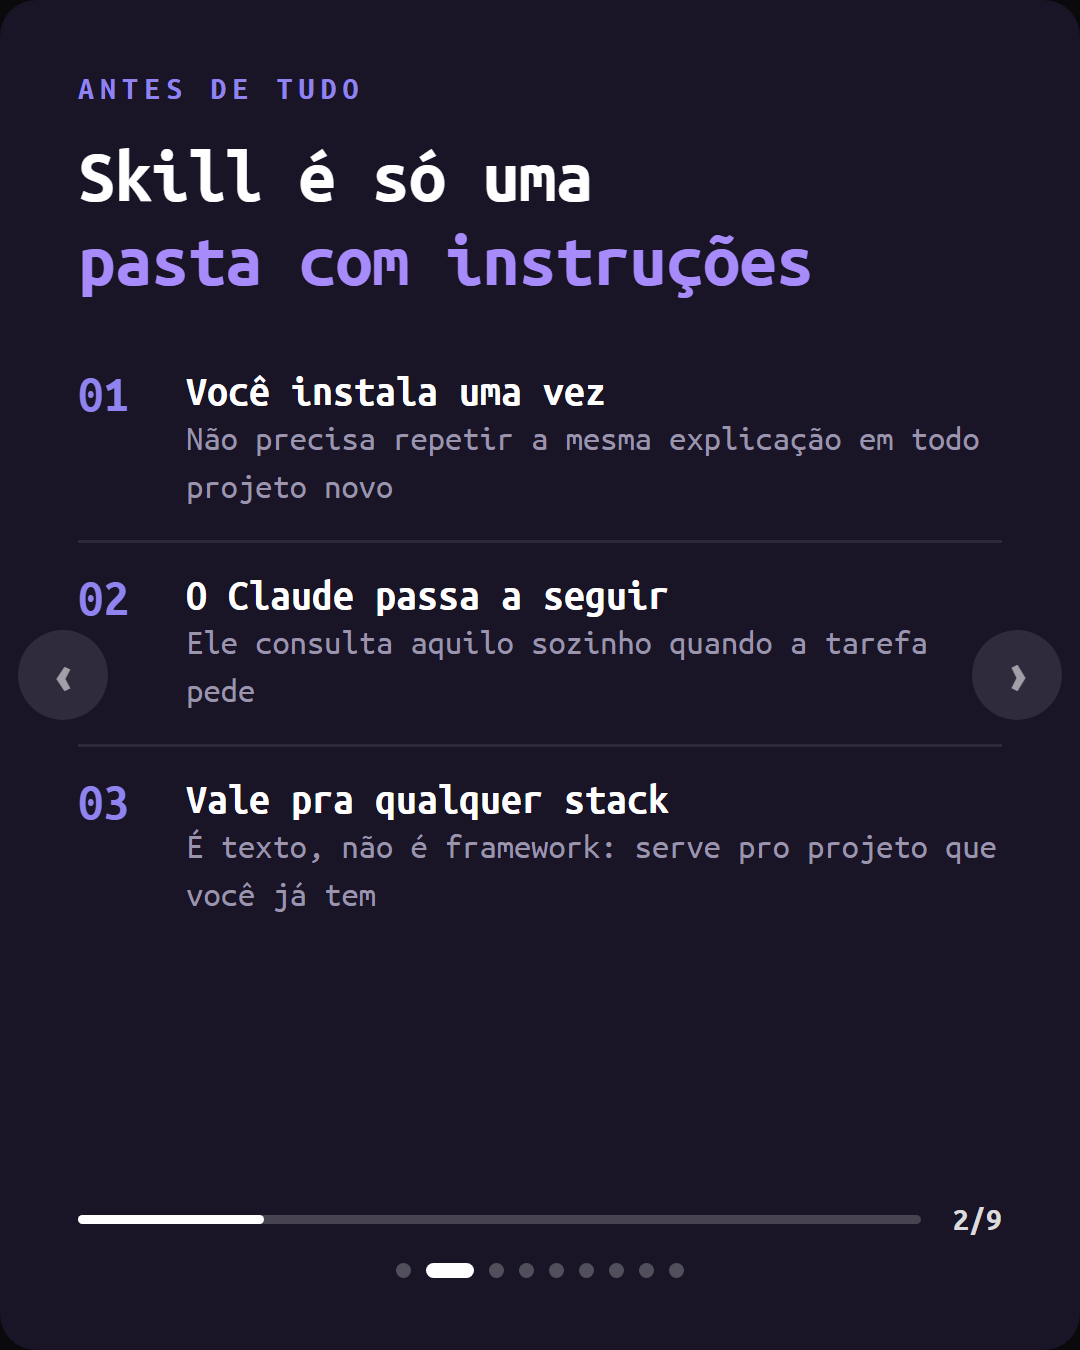
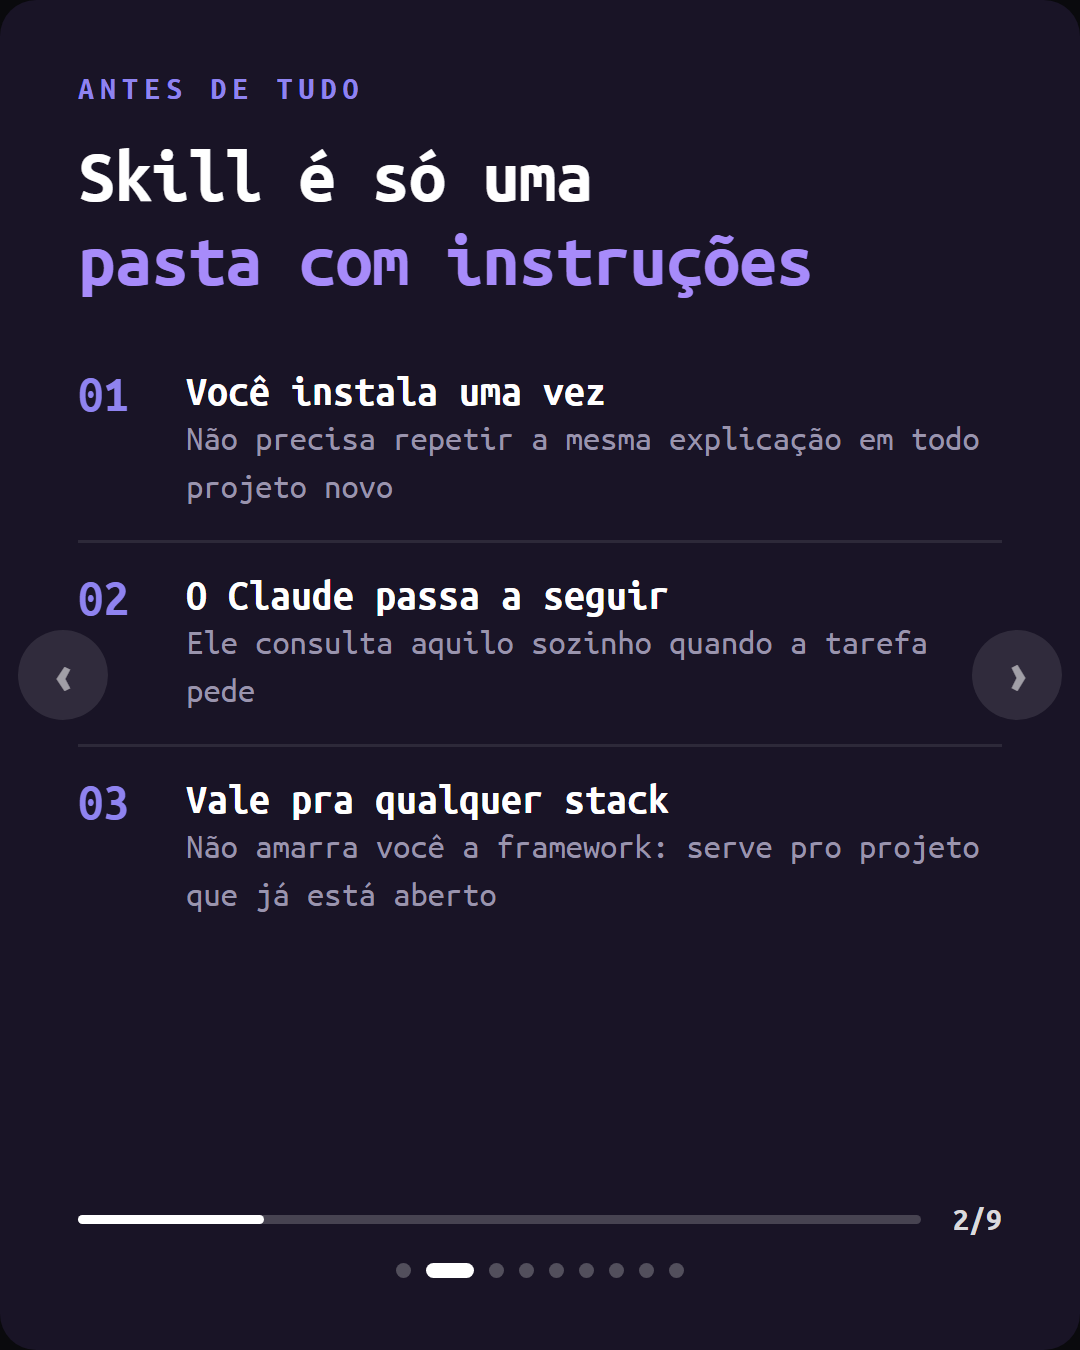
fix(dobro): comandos das 4 skills conferidos no README, antes de publicar
Uma revisao apontou tres erros no post e nos presente, e os READMEs confirmaram
dois inteiros e um pela metade:

1. "claude install-skill <url>" NAO EXISTE. Era invencao. O Task Observer se
   instala copiando a pasta da skill para .claude/skills/task-observer/ (ou
   zipando e subindo em Settings > Capabilities nos apps).
2. UI/UX Pro Max: o README lidera com "npm install -g ui-ux-pro-max-cli" +
   "uipro init --ai claude", e EXIGE Python 3 pro script de busca. O requisito
   virou aviso no slide dela. (A justificativa da revisao, de que o repo teria
   varias skills, nao procede: e uma skill unificada.)
3. GSAP: "/plugin marketplace add" so REGISTRA o marketplace, nao instala. O
   README recomenda "npx skills add https://github.com/greensock/gsap-skills".

O slide dos comandos saiu por completo (decisao do dono): cada projeto instala
de um jeito, e comando errado no slide salvavel e o pior lugar pra errar. No
lugar entrou "Qual delas rodar hoje", ligando cada dor a uma skill, que salva
igual e nao tem risco factual. O passo a passo vive no presente, que e o que o
CTA entrega.

Saiu tambem o "E texto, nao e framework": com o Python da primeira skill, a
frase absoluta ficou imprecisa.

O titulo passou a ser o mesmo do card no board. carrossel:render apaga e
reinsere POR TITULO, entao com o arquivo desalinhado ele criava um card novo em
vez de atualizar o existente (aconteceu: dois cards, um orfao removido a mao).

Changed region(s): [[0.1528, 0.6222, 0.9167, 0.6844]]

diff --git a/apps/dobro/server/carrossel/carrosseis/4-skills-claude-code.ts b/apps/dobro/server/carrossel/carrosseis/4-skills-claude-code.ts
@@ -46,11 +46,14 @@ const SHOT = 'server/carrossel/assets/4-skills-claude-code';
 
 export const quatroSkillsClaudeCode: Carrossel = {
   slug: '4-skills-claude-code',
-  titulo: '4 skills do Claude Code',
+  // Título igual ao do card no board: `carrossel:render` apaga e reinsere POR
+  // TÍTULO, então quando o dono renomeia o card e o arquivo fica pra trás, o
+  // render cria um card novo em vez de atualizar o dele (aconteceu em 06/08).
+  titulo: '4 skills do Claude te deixam a frente de 99% dos outros programadores',
   gancho: '4 skills do Claude te deixam à frente de 99% dos outros programadores.',
   refsLinks:
     'https://github.com/nextlevelbuilder/ui-ux-pro-max-skill · https://github.com/rebelytics/one-skill-to-rule-them-all · https://github.com/greensock/gsap-skills · https://code.claude.com/docs/en/slash-commands',
-  dataProgramada: '2026-08-06',
+  dataProgramada: '2026-08-07',
   /** Arte da capa (imagem do dono, 05/08): o polvo de óculos escuros com o 4. */
   bgImage: `${SHOT}/capa.png`,
   slides: [
@@ -70,7 +73,7 @@ export const quatroSkillsClaudeCode: Carrossel = {
       steps: [
         { n: '01', titulo: 'Você instala uma vez', sub: 'Não precisa repetir a mesma explicação em todo projeto novo' },
         { n: '02', titulo: 'O Claude passa a seguir', sub: 'Ele consulta aquilo sozinho quando a tarefa pede' },
-        { n: '03', titulo: 'Vale pra qualquer stack', sub: 'É texto, não é framework: serve pro projeto que você já tem' },
+        { n: '03', titulo: 'Vale pra qualquer stack', sub: 'Não amarra você a framework: serve pro projeto que já está aberto' },
       ],
     },
     {
@@ -87,7 +90,7 @@ export const quatroSkillsClaudeCode: Carrossel = {
       eyebrow: 'Skill 01',
       titulo: '**UI/UX Pro Max**',
       corpo:
-        'São 114 mil estrelas no GitHub em 8 meses. Ela dá ao Claude inteligência de design pra montar interface profissional, em vez de tela com cara de template.',
+        'São 114 mil estrelas no GitHub em 8 meses. Ela dá ao Claude inteligência de design pra montar interface profissional, em vez de tela com cara de template. Pede Python 3 instalado, pro script de busca dela.',
       imagem: `${SHOT}/ui-ux-pro-max.png`,
     },
     {
@@ -115,18 +118,18 @@ export const quatroSkillsClaudeCode: Carrossel = {
       imagem: `${SHOT}/gsap.png`,
     },
     {
+      // O slide de comandos saiu (decisão do dono, 06/08): cada projeto documenta a
+      // instalação de um jeito, e comando errado no slide salvável é o pior lugar
+      // pra errar. O passo a passo de cada uma vive no presente do Notion, que é o
+      // que o CTA entrega.
       variant: 'dark',
       eyebrow: 'Salva esse slide',
-      titulo: 'Os **4 comandos**,\npra copiar e colar',
-      terminal: [
-        '$ npx skills add nextlevelbuilder/ui-ux-pro-max-skill',
-        '→ UI/UX Pro Max',
-        '$ claude install-skill https://github.com/rebelytics/one-skill-to-rule-them-all',
-        '→ Task Observer',
-        '$ /security-review',
-        '→ já vem no Claude Code, é só digitar',
-        '$ /plugin marketplace add greensock/gsap-skills',
-        '→ GSAP oficial',
+      titulo: 'Qual delas rodar\n**hoje**',
+      itens: [
+        { icone: 'eye', titulo: 'Tela com cara de template', sub: 'UI/UX Pro Max' },
+        { icone: 'loop', titulo: 'Cansou de repetir a mesma correção', sub: 'Task Observer' },
+        { icone: 'ban', titulo: 'Vai subir código que mexe com dado', sub: '/security-review' },
+        { icone: 'code', titulo: 'Quer animação que não trava', sub: 'GSAP da GreenSock' },
       ],
       corpo: 'Escolhe UMA e roda hoje, no projeto que você já tem aberto. Instalar as quatro de uma vez não ajuda.',
     },
@@ -151,7 +154,8 @@ export const quatroSkillsClaudeCode: Carrossel = {
     'security-review você nem instala, já vem no Claude Code. Digita /security-review e ele revisa as mudanças da sua ' +
     'branch atrás de falha de segurança antes de você subir o código.\n\n' +
     'GSAP é a skill oficial da GreenSock, feita por quem criou a biblioteca. Ensina o agente a animar do jeito certo.\n\n' +
-    'Salva o post pelos comandos e escolhe UMA pra rodar hoje, no projeto que você já tem aberto.\n\n' +
+    'Salva o post e escolhe UMA pra rodar hoje, no projeto que você já tem aberto. Instalar as quatro de uma vez ' +
+    'não ajuda: você não percebe o que mudou.\n\n' +
     'Comenta SKILLS aqui embaixo que eu te mando o passo a passo de instalação das 4. 👇',
   hashtags:
     'claudecode claudeskills programacao devtools frontend gsap uiux inteligenciaartificial devemdobro carreiratech',
@@ -163,6 +167,15 @@ export const quatroSkillsClaudeCode: Carrossel = {
    */
   linkPresente: 'https://app.notion.com/p/3b36dd01fb4881be9817d704bac2bc3f',
   briefing:
+    '⚠ CORREÇÃO DE COMANDOS (06/08/2026, ANTES de publicar) — os READMEs foram conferidos um a um:\n' +
+    '1. "claude install-skill <url>" NÃO EXISTE. Era invenção. O Task Observer se instala copiando a pasta da skill ' +
+    'para .claude/skills/task-observer/ (ou zipando e subindo em Settings > Capabilities nos apps).\n' +
+    '2. UI/UX Pro Max: o README lidera com "npm install -g ui-ux-pro-max-cli" + "uipro init --ai claude", e EXIGE ' +
+    'Python 3 pro script de busca (biblioteca padrão, sem chamadas de rede). O requisito virou aviso no slide dela.\n' +
+    '3. GSAP: "/plugin marketplace add" só REGISTRA o marketplace, não instala. O README recomenda ' +
+    '"npx skills add https://github.com/greensock/gsap-skills", que é o que ficou no slide.\n' +
+    'O passo "É texto, não é framework" saiu do slide 2: com o Python da primeira skill, a frase absoluta ficou ' +
+    'imprecisa.\n\n' +
     'FÓRMULA: ferramenta concreta com nome próprio, grátis, com comando copiável e slide salvável. É a categoria que ' +
     'mais puxa salvamento na conta.\n\n' +
     'DIFERENÇA PRA REFERÊNCIA (@hasantoxr): ela lista 5 skills soltas. Aqui o recorte é "sobe o nível do projeto" e a ' +
